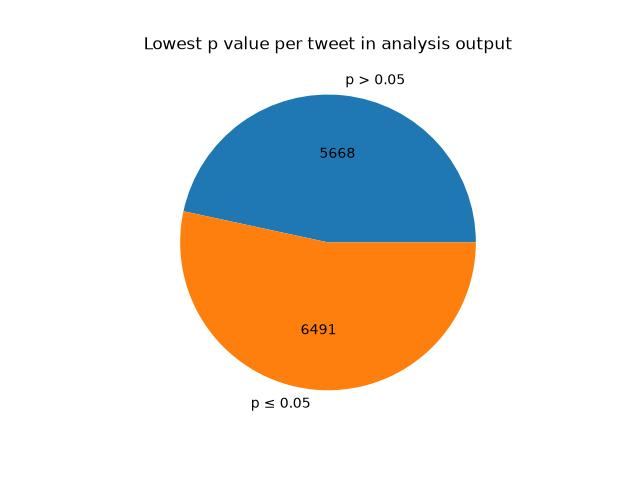
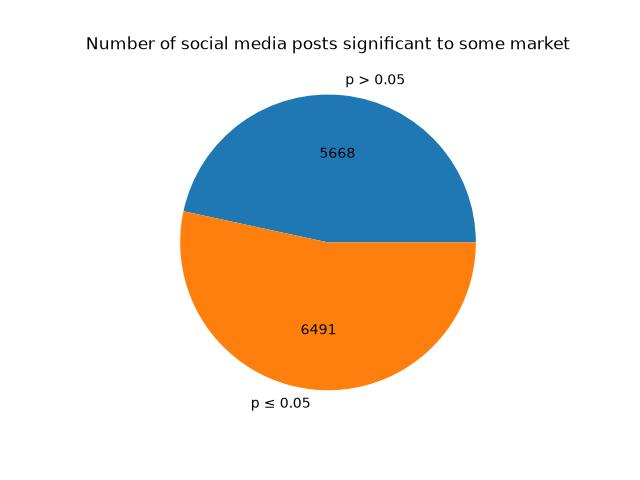
moved meta anslaysis and comclusion to results, updated plots

Changed region(s): [[0.125, 0.0625, 0.9062, 0.125]]

diff --git a/results.html b/results.html
@@ -52,7 +52,36 @@
 						<img src="images/example_graph.png" alt="Example graph">
 					</section>
 				</div>	
-
+				<div class="mainbox-item">
+					<section id="analysis">
+						<h3> Conclusion </h3>
+						<p>
+							Our analysis shows that for some topics Trump's social media posts are followed by significant market movements. With an especially prominent example being bets related to the Russia-Ukraine war, or the actions of (in-)directly involved high profile people.
+						</p>
+						<p>
+							However, compared to the total volume of Trump's social media posts these remain a minority.
+						</p>
+					</section>
+				</div>	
+				<div class="mainbox-item">
+					<section id="analysis">
+						<h3> Meta Analysis </h3>
+						<p>
+							These statistics are a side product of the analysis and help to contextualise the correlation graphs.
+						</p>
+						<p>
+							Since the same tweet may be applicable to multiple markets the following graphs show the lowest recorded p values split by significance threshold 0.05 for each tweet and each market separately.
+							<center>
+								<table style="border:none">
+								<tr>
+									<td style="border:none"><img src="images/analysis/pieplt-markets-sig-vs-unsig.jpg"></td>
+									<td style="border:none"><img src="images/analysis/pieplt-tweets-sig-vs-unsig.jpg"></td>
+								</tr>
+								</table>
+							</center>
+						</p>
+					</section>
+				</div>	
 			</div>
 		</main>
 	</body>

diff --git a/analysis.html b/analysis.html
@@ -127,36 +127,6 @@
 					</section>
 
 				</div>	
-				<div class="mainbox-item">
-					<section id="analysis">
-						<h3> Conclusion </h3>
-						<p>
-							Our analysis shows that for some topics Trump's social media posts are followed by significant market movements. With an especially prominent example being bets related to the Russia-Ukraine war, or the actions of (in-)directly involved high profile people.
-						</p>
-						<p>
-							However, compared to the total volume of Trump's social media posts these remain a minority.
-						</p>
-					</section>
-				</div>	
-				<div class="mainbox-item">
-					<section id="analysis">
-						<h3> Meta Analysis </h3>
-						<p>
-							These statistics are a side product of the analysis and help to contextualise the correlation graphs.
-						</p>
-						<p>
-							Since the same tweet may be applicable to multiple markets the following graphs show the lowest recorded p values split by significance threshold 0.05 for each tweet and each market separately.
-							<center>
-								<table style="border:none">
-								<tr>
-									<td style="border:none"><img src="images/analysis/pieplt-markets-sig-vs-unsig.jpg"></td>
-									<td style="border:none"><img src="images/analysis/pieplt-tweets-sig-vs-unsig.jpg"></td>
-								</tr>
-								</table>
-							</center>
-						</p>
-					</section>
-				</div>	
 			</div>
 		</main>
 	</body>